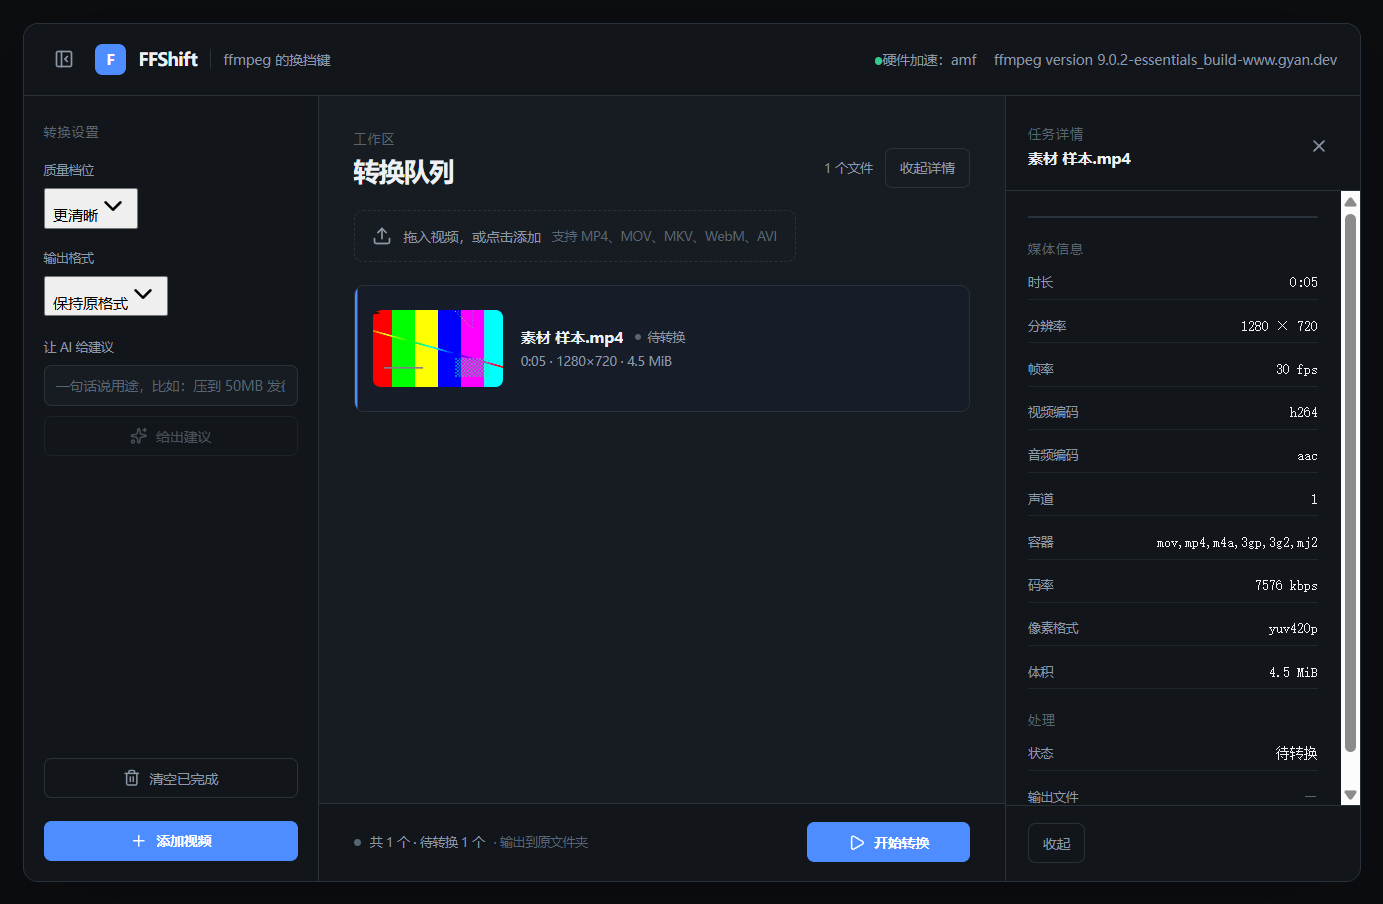
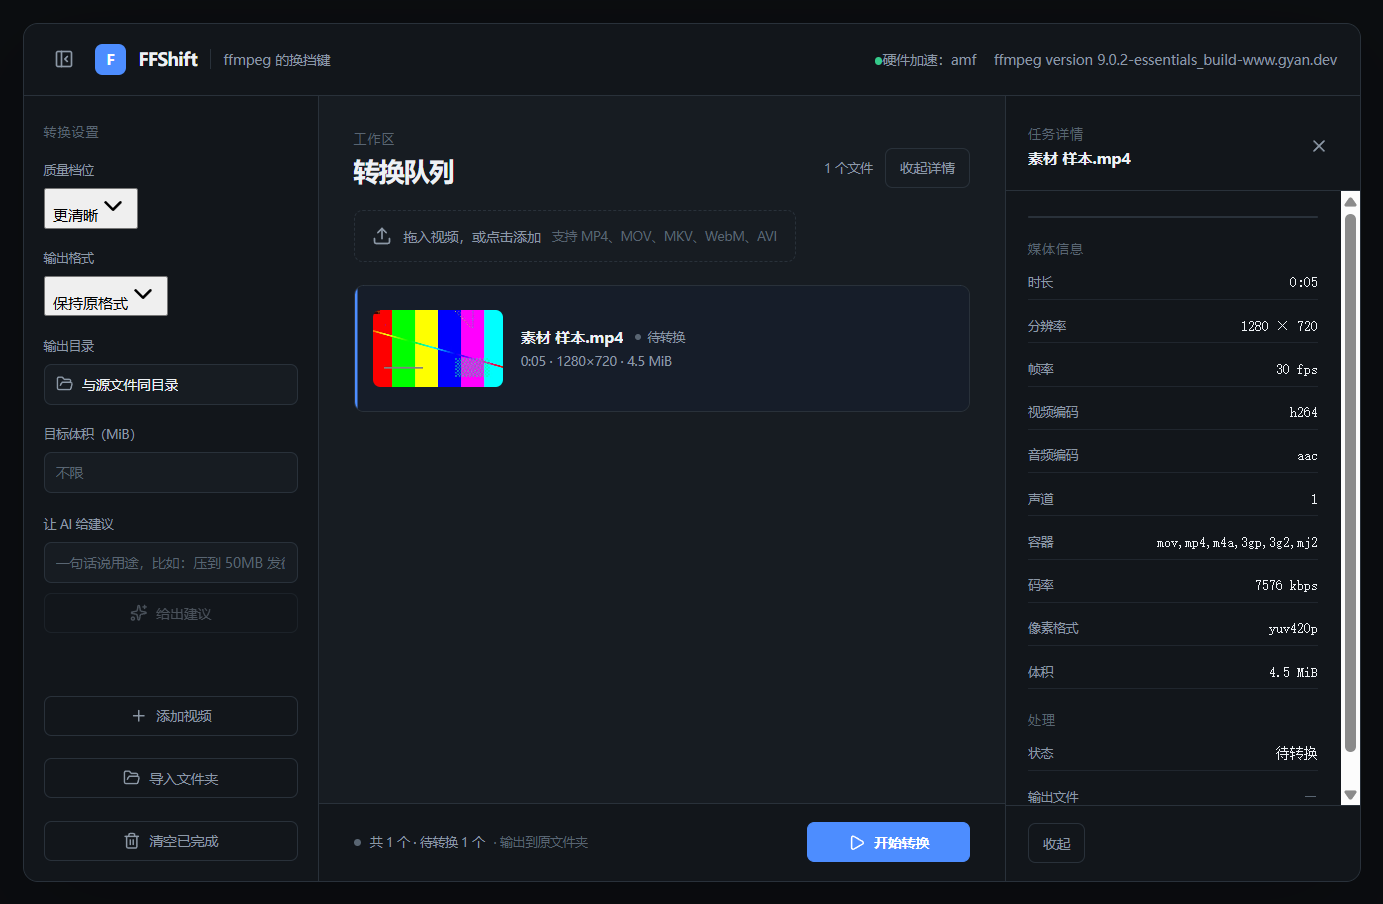
ui: 补上输出目录、目标体积与文件夹导入
三个盘点出的 Must/Should 缺口：
- 输出目录：此前只能落在源文件旁边。现在可指定，空值按默认处理，
  目录结尾的分隔符不会拼出双斜杠；路径计算仍是纯函数，补了 7 条用例
- 目标体积：此前只能靠 AI 建议带入，现在可以直接填，越界收敛到 1-10000；
  它是针对当前批次的临时设置，不持久化
- 文件夹导入：一次把目录里的视频加进来，只扫一层
  （递归容易把系统里的零碎视频也拖进来，那不是用户想要的）

验证：单测 172 条全绿、typecheck 通过、界面截图已更新
Refs: ADR-014

diff --git a/src/App.tsx b/src/App.tsx
@@ -60,6 +60,16 @@ const STATUS_LABEL: Record<TaskItem['status'], string> = {
   unsupported: '不支持',
 };
 
+/** 目标体积输入：空 → 不限；越界收敛到 1–10000，不把 NaN 或负数传下去 */
+function readTargetSize(raw: string): number | null {
+  const trimmed = raw.trim();
+  if (trimmed.length === 0) return null;
+
+  const value = Number(trimmed);
+  if (!Number.isFinite(value) || value < 1) return null;
+  return Math.round(Math.min(value, 10_000));
+}
+
 /** 自定义下拉：原生 select 太系统化，这里做成菜单，支持外部点击与 Esc 关闭 */
 function Menu<T extends string>({
   value,
@@ -372,6 +382,7 @@ export default function App() {
     tasks,
     preset,
     outputFormat,
+    outputDir,
     targetSizeMiB,
     hardware,
     ffmpegVersion,
@@ -379,7 +390,11 @@ export default function App() {
     startAll,
     setPreset,
     setOutputFormat,
+    setTargetSize,
     applySuggestion,
+    pickOutputDir,
+    clearOutputDir,
+    addFolder,
     clearFinished,
   } = useStore();
 
@@ -467,20 +482,50 @@ export default function App() {
                 options={FORMAT_OPTIONS}
               />
 
-              {targetSizeMiB !== null && <span className="kicker">目标体积 {targetSizeMiB} MiB</span>}
+              <label>输出目录</label>
+              <button
+                type="button"
+                className="path-button"
+                title={outputDir ?? '与源文件同目录'}
+                onClick={() => void pickOutputDir()}
+              >
+                <FolderOpen />
+                <span>{outputDir ? (outputDir.split(/[\\/]/).pop() ?? outputDir) : '与源文件同目录'}</span>
+              </button>
+              {outputDir && (
+                <button type="button" className="secondary-button full" onClick={clearOutputDir}>
+                  恢复默认目录
+                </button>
+              )}
+
+              <label htmlFor="target-size">目标体积（MiB）</label>
+              <input
+                id="target-size"
+                className="size-input"
+                type="number"
+                min={1}
+                max={10000}
+                placeholder="不限"
+                value={targetSizeMiB ?? ''}
+                onChange={(event) => setTargetSize(readTargetSize(event.target.value))}
+              />
             </section>
 
             <Assistant onApply={applySuggestion} />
 
             <div className="rail-spacer" />
 
-            <button type="button" className="secondary-button full" onClick={() => void clearFinished()}>
-              <Trash2 />
-              清空已完成
-            </button>
             <button type="button" className="secondary-button full" onClick={() => void pickFiles()}>
               <Plus />
               添加视频
+            </button>
+            <button type="button" className="secondary-button full" onClick={() => void addFolder()}>
+              <FolderOpen />
+              导入文件夹
+            </button>
+            <button type="button" className="secondary-button full" onClick={() => void clearFinished()}>
+              <Trash2 />
+              清空已完成
             </button>
           </aside>
         )}

diff --git a/electron/ipc.ts b/electron/ipc.ts
@@ -4,8 +4,8 @@
  */
 import { app, dialog, ipcMain, shell, type BrowserWindow } from 'electron';
 import { execFile } from 'node:child_process';
-import { existsSync } from 'node:fs';
-import { join } from 'node:path';
+import { existsSync, readdirSync } from 'node:fs';
+import { extname, join } from 'node:path';
 import { promisify } from 'node:util';
 import { buildArgs } from '../src/lib/ffmpeg-args';
 import { fallbackSuggestion } from '../src/lib/ai-suggest';
@@ -27,8 +27,11 @@ import { ensureThumbnail } from './ffmpeg/thumbnail';
 
 const execFileAsync = promisify(execFile);
 
+/** 能被转换器认下的视频扩展名；文件对话框与文件夹扫描都用这一份 */
+const VIDEO_EXTENSIONS = ['mp4', 'mov', 'mkv', 'avi', 'webm', 'flv', 'wmv', 'm4v', 'mpg', 'mpeg', 'ts', 'mxf'];
+
 const VIDEO_FILTERS = [
-  { name: '视频文件', extensions: ['mp4', 'mov', 'mkv', 'avi', 'webm', 'flv', 'wmv', 'm4v', 'mpg', 'mpeg', 'ts', 'mxf'] },
+  { name: '视频文件', extensions: VIDEO_EXTENSIONS },
   { name: '全部文件', extensions: ['*'] },
 ];
 
@@ -56,6 +59,30 @@ export function registerIpc({ getWindow }: Deps): void {
       ? await dialog.showOpenDialog(window, { properties: ['openFile', 'multiSelections'], filters: VIDEO_FILTERS })
       : await dialog.showOpenDialog({ properties: ['openFile', 'multiSelections'], filters: VIDEO_FILTERS });
     return result.canceled ? [] : result.filePaths;
+  });
+
+  ipcMain.handle('ffshift:pick-folder', async (_event, title?: string) => {
+    const window = getWindow();
+    const options = {
+      title: typeof title === 'string' && title.length > 0 ? title : '选择文件夹',
+      properties: ['openDirectory' as const],
+    };
+    const result = window ? await dialog.showOpenDialog(window, options) : await dialog.showOpenDialog(options);
+    return result.canceled ? [] : result.filePaths;
+  });
+
+  ipcMain.handle('ffshift:scan-folder', async (_event, folder: string) => {
+    if (typeof folder !== 'string' || !existsSync(folder)) return [];
+    try {
+      // 只扫一层：用户选的是一个文件夹，不是整棵目录树；递归容易把系统里的零碎视频也拖进来
+      return readdirSync(folder, { withFileTypes: true })
+        .filter((entry) => entry.isFile())
+        .map((entry) => join(folder, entry.name))
+        .filter((fullPath) => VIDEO_EXTENSIONS.includes(extname(fullPath).slice(1).toLowerCase()))
+        .sort();
+    } catch {
+      return [];
+    }
   });
 
   ipcMain.handle('ffshift:ffmpeg-version', async () => {

diff --git a/src/store.ts b/src/store.ts
@@ -50,9 +50,14 @@ interface State {
   clearFinished: () => void;
   setPreset: (preset: Preset) => void;
   setOutputFormat: (format: OutputFormat) => void;
+  /** 直接指定目标体积（MiB）；null 表示不限体积。不持久化：它是针对当前批次的临时设置 */
+  setTargetSize: (targetSizeMiB: number | null) => void;
   /** 采纳 AI 建议：档位与目标体积一起生效（否则体积建议等于空话） */
   applySuggestion: (preset: Preset, targetSizeMiB: number | null) => void;
   pickOutputDir: () => Promise<void>;
+  clearOutputDir: () => void;
+  /** 选一个文件夹，把里面的视频一次性加进来 */
+  addFolder: () => Promise<void>;
   detectHardware: () => Promise<void>;
   loadSettings: () => Promise<void>;
 }
@@ -66,7 +71,7 @@ export const useStore = create<State>((set, get) => {
     const next = tasks.find((t) => t.status === 'queued');
     if (!next || !next.info) return;
 
-    const output = next.output ?? outputPathFor(next.path, get().outputFormat);
+    const output = next.output ?? outputPathFor(next.path, get().outputFormat, outputDir);
     set((state) => ({
       tasks: state.tasks.map((t) => (t.id === next.id ? { ...t, status: 'running', output } : t)),
     }));
@@ -208,17 +213,34 @@ export const useStore = create<State>((set, get) => {
       void persistSettings(get());
     },
 
+    setTargetSize(targetSizeMiB) {
+      set({ targetSizeMiB });
+    },
+
     applySuggestion(preset, targetSizeMiB) {
       set({ preset, targetSizeMiB });
       void persistSettings(get());
     },
 
     async pickOutputDir() {
-      const dir = await api()?.pickFiles();
-      if (dir && dir[0]) {
-        set({ outputDir: dir[0] });
+      const folders = await api()?.pickFolder('选择输出目录');
+      if (folders?.[0]) {
+        set({ outputDir: folders[0] });
         void persistSettings(get());
       }
+    },
+
+    clearOutputDir() {
+      set({ outputDir: null });
+      void persistSettings(get());
+    },
+
+    async addFolder() {
+      const folders = await api()?.pickFolder('选择要导入的文件夹');
+      const folder = folders?.[0];
+      if (!folder) return;
+      const files = await api()?.scanFolder(folder);
+      if (files?.length) await get().addFiles(files);
     },
 
     async detectHardware() {

diff --git a/src/lib/ffmpeg-args.ts b/src/lib/ffmpeg-args.ts
@@ -369,15 +369,32 @@ export function buildArgs(options: ConvertOptions): string[] {
   return [...head, ...videoArgs(options, container, presetSpec), ...container.muxerArgs, options.output];
 }
 
-/** 输出路径：同目录、按目标格式给扩展名，插入 .ffshift 后缀，绝不覆盖源文件。 */
-export function outputPathFor(input: string, format: OutputFormat): string {
+/**
+ * 输出路径：按目标格式给扩展名，插入 .ffshift 后缀，绝不覆盖源文件。
+ *
+ * 默认落在源文件旁边；给了 outputDir 就放那里。目录为空或只有空格时按"未指定"处理，
+ * 免得拼出一个指向当前工作目录的路径。只做字符串拼接，不引 node:path —— 这个函数
+ * 渲染进程也要用，那边没有 Node。
+ */
+export function outputPathFor(input: string, format: OutputFormat, outputDir?: string | null): string {
   const container = resolveContainer(format, input);
   const lastDot = input.lastIndexOf('.');
   const lastSlash = Math.max(input.lastIndexOf('\\'), input.lastIndexOf('/'));
   const hasExtension = lastDot > lastSlash && lastDot > 0;
-  const stem = hasExtension ? input.slice(0, lastDot) : input;
 
-  return `${stem}.ffshift.${container.extension}`;
+  const directory = outputDir?.trim() ?? '';
+  if (directory.length === 0) {
+    const stem = hasExtension ? input.slice(0, lastDot) : input;
+    return `${stem}.ffshift.${container.extension}`;
+  }
+
+  const fileName = input.slice(lastSlash + 1);
+  const stem = hasExtension ? fileName.slice(0, fileName.lastIndexOf('.')) : fileName;
+  // 用目录自己的分隔符风格拼接，避免 Windows 路径里混进正斜杠
+  const separator = directory.includes('/') && !directory.includes('\\') ? '/' : '\\';
+  const cleaned = directory.replace(/[\\/]+$/, '');
+
+  return `${cleaned}${separator}${stem}.ffshift.${container.extension}`;
 }
 
 /** 保留旧名字：默认跟随输入格式 */

diff --git a/src/lib/output-format.test.ts b/src/lib/output-format.test.ts
@@ -140,3 +140,36 @@ describe('outputPathFor', () => {
     expect(outputPathFor('D:\\我的 素材.v2\\片段', 'mkv')).toBe('D:\\我的 素材.v2\\片段.ffshift.mkv');
   });
 });
+
+describe('outputPathFor 的输出目录', () => {
+  it('没指定目录时落在源文件旁边', () => {
+    expect(outputPathFor('D:\\素材\\片段.mkv', 'mp4')).toBe('D:\\素材\\片段.ffshift.mp4');
+    expect(outputPathFor('D:\\素材\\片段.mkv', 'mp4', null)).toBe('D:\\素材\\片段.ffshift.mp4');
+  });
+
+  it('指定目录时落在那个目录里', () => {
+    expect(outputPathFor('D:\\素材\\片段.mkv', 'mp4', 'E:\\输出')).toBe('E:\\输出\\片段.ffshift.mp4');
+  });
+
+  it('目录结尾的分隔符不产生双斜杠', () => {
+    expect(outputPathFor('D:\\素材\\片段.mkv', 'mp4', 'E:\\输出\\')).toBe('E:\\输出\\片段.ffshift.mp4');
+    expect(outputPathFor('D:\\素材\\片段.mkv', 'mp4', 'E:\\输出\\\\')).toBe('E:\\输出\\片段.ffshift.mp4');
+  });
+
+  it('目录用正斜杠时也用正斜杠拼接', () => {
+    expect(outputPathFor('D:\\素材\\片段.mkv', 'mp4', 'E:/输出')).toBe('E:/输出/片段.ffshift.mp4');
+  });
+
+  it('空目录字符串按未指定处理，不拼出奇怪的路径', () => {
+    expect(outputPathFor('D:\\素材\\片段.mkv', 'mp4', '')).toBe('D:\\素材\\片段.ffshift.mp4');
+    expect(outputPathFor('D:\\素材\\片段.mkv', 'mp4', '   ')).toBe('D:\\素材\\片段.ffshift.mp4');
+  });
+
+  it('无扩展名的源文件也能放到指定目录', () => {
+    expect(outputPathFor('D:\\素材\\无名', 'webm', 'E:\\输出')).toBe('E:\\输出\\无名.ffshift.webm');
+  });
+
+  it('换格式时扩展名跟着目标变，不受源文件影响', () => {
+    expect(outputPathFor('D:\\素材\\片段.mkv', 'mp3', 'E:\\输出')).toBe('E:\\输出\\片段.ffshift.mp3');
+  });
+});

diff --git a/src/styles.css b/src/styles.css
@@ -299,6 +299,62 @@ button {
   font-size: 11px;
 }
 
+/* 输出目录：长得像菜单触发器，但点开的是系统目录选择框 */
+.path-button {
+  display: flex;
+  align-items: center;
+  gap: 7px;
+  width: 100%;
+  min-height: 33px;
+  padding: 0 9px;
+  overflow: hidden;
+  border: 1px solid var(--line);
+  border-radius: 6px;
+  background: var(--panel-soft);
+  color: var(--ink);
+  font-size: 11px;
+  text-align: left;
+}
+
+.path-button:hover {
+  border-color: var(--blue);
+}
+
+.path-button svg {
+  width: 14px;
+  height: 14px;
+  flex-shrink: 0;
+  color: var(--muted);
+}
+
+.path-button span {
+  overflow: hidden;
+  text-overflow: ellipsis;
+  white-space: nowrap;
+}
+
+/* 目标体积：只收正整数，其它值由 readTargetSize 收敛 */
+.size-input {
+  width: 100%;
+  min-height: 33px;
+  padding: 0 9px;
+  border: 1px solid var(--line);
+  border-radius: 6px;
+  background: var(--panel-soft);
+  color: var(--ink);
+  font-size: 11px;
+  font-variant-numeric: tabular-nums;
+}
+
+.size-input::placeholder {
+  color: var(--dim);
+}
+
+.size-input:focus {
+  outline: none;
+  border-color: var(--blue);
+}
+
 .idea-input::placeholder {
   color: var(--dim);
 }

diff --git a/electron/preload.ts b/electron/preload.ts
@@ -18,6 +18,8 @@ import type {
 
 const api: FfshiftApi & { getPathForFile: (file: File) => string } = {
   pickFiles: () => ipcRenderer.invoke('ffshift:pick-files') as Promise<string[]>,
+  pickFolder: (title?: string) => ipcRenderer.invoke('ffshift:pick-folder', title) as Promise<string[]>,
+  scanFolder: (folder: string) => ipcRenderer.invoke('ffshift:scan-folder', folder) as Promise<string[]>,
   probe: (path) => ipcRenderer.invoke('ffshift:probe', path) as Promise<ProbeResponse>,
   thumbnail: (path, durationSec) =>
     ipcRenderer.invoke('ffshift:thumbnail', path, durationSec) as Promise<ThumbnailResponse>,

diff --git a/src/lib/ipc-types.ts b/src/lib/ipc-types.ts
@@ -67,6 +67,10 @@ export interface HardwareReport {
 
 export interface FfshiftApi {
   pickFiles: () => Promise<string[]>;
+  /** 选一个文件夹（用于批量导入，或指定输出目录） */
+  pickFolder: (title?: string) => Promise<string[]>;
+  /** 扫描文件夹里的视频文件（按扩展名过滤，不递归） */
+  scanFolder: (folder: string) => Promise<string[]>;
   probe: (path: string) => Promise<ProbeResponse>;
   thumbnail: (path: string, durationSec: number | null) => Promise<ThumbnailResponse>;
   convert: (request: ConvertRequest) => Promise<ConvertResponse>;

diff --git a/docs/project-status.md b/docs/project-status.md
@@ -1,17 +1,17 @@
 # 项目状态 · FFShift
 
-> 本文件由 `scripts/lib/status.mjs` 在每次提交后自动生成，**不要手改**。数据截至 2026-09-23 07:01:40。
+> 本文件由 `scripts/lib/status.mjs` 在每次提交后自动生成，**不要手改**。数据截至 2026-09-23 07:04:02。
 > 用途：一眼看清项目当前的信息密度——代码、规格、测试、文档各到什么程度。
 
 ## 概览
 
 | 项 | 值 |
 | --- | --- |
-| 提交总数 | 32 |
+| 提交总数 | 33 |
 | 首个提交 | 2026-09-23 |
-| 最近提交 | 2026-09-23T15:01:29+08:00 |
-| 累计改动 | 103 files changed, 14103 insertions(+), 2643 deletions(-) |
-| 分支 | chore/repo-bootstrap、feat/ui-refresh、main |
+| 最近提交 | 2026-09-23T15:03:51+08:00 |
+| 累计改动 | 104 files changed, 14230 insertions(+), 2737 deletions(-) |
+| 分支 | chore/bump-1.2.0、chore/repo-bootstrap、main |
 | 版本 Tag | v1.1.0、v1.0.0、v0.1.0 |
 | 文档数 | 10 份 |
 | 能力规格 | 3 个 |

diff --git a/docs/ai-session-log.md b/docs/ai-session-log.md
@@ -158,3 +158,4 @@
 | 09-23 13:55 | chore/version-and-cursor | `534a908` | build: 版本号升到 1.1.0 | 重新打包后产物为 FFShift-1.1.0-setup.exe | 1 <!-- commit:534a908 --> |
 | 09-23 14:16 | docs/ui-spec | `dfe6429` | docs: 加一份交给 v0.app 的界面规格 | 文档通过 oil-tone 检查 | 1 <!-- commit:dfe6429 --> |
 | 09-23 15:01 | feat/ui-refresh | `6503cad` | ui: 按 v0.app 的三栏布局重构界面 | typecheck 通过；单测 165 条全绿；端到端实测转换成功（837ms） | 6 <!-- commit:6503cad --> |
+| 09-23 15:03 | chore/bump-1.2.0 | `4554b15` | build: 版本号升到 1.2.0 | 重新打包后产物为 FFShift-1.2.0-setup.exe | 1 <!-- commit:4554b15 --> |
